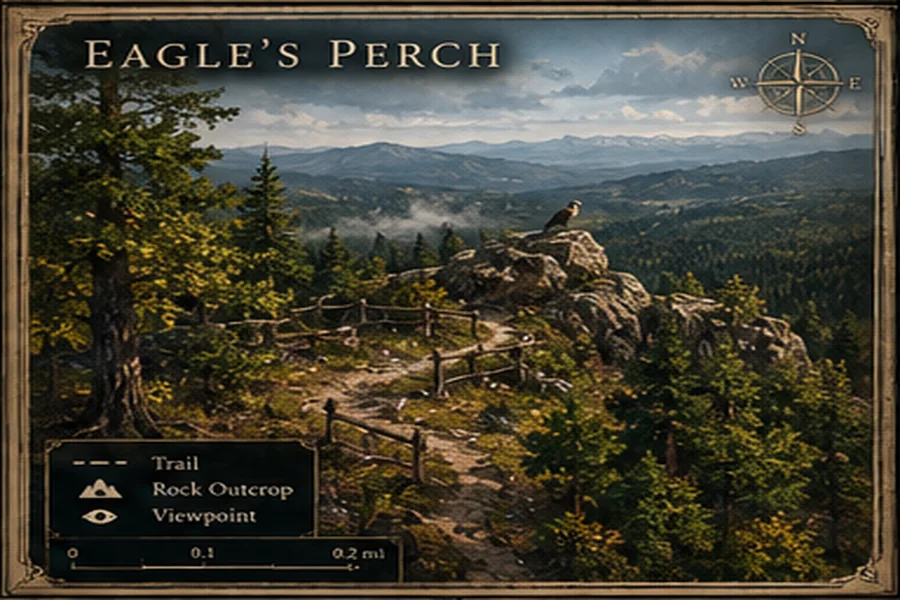
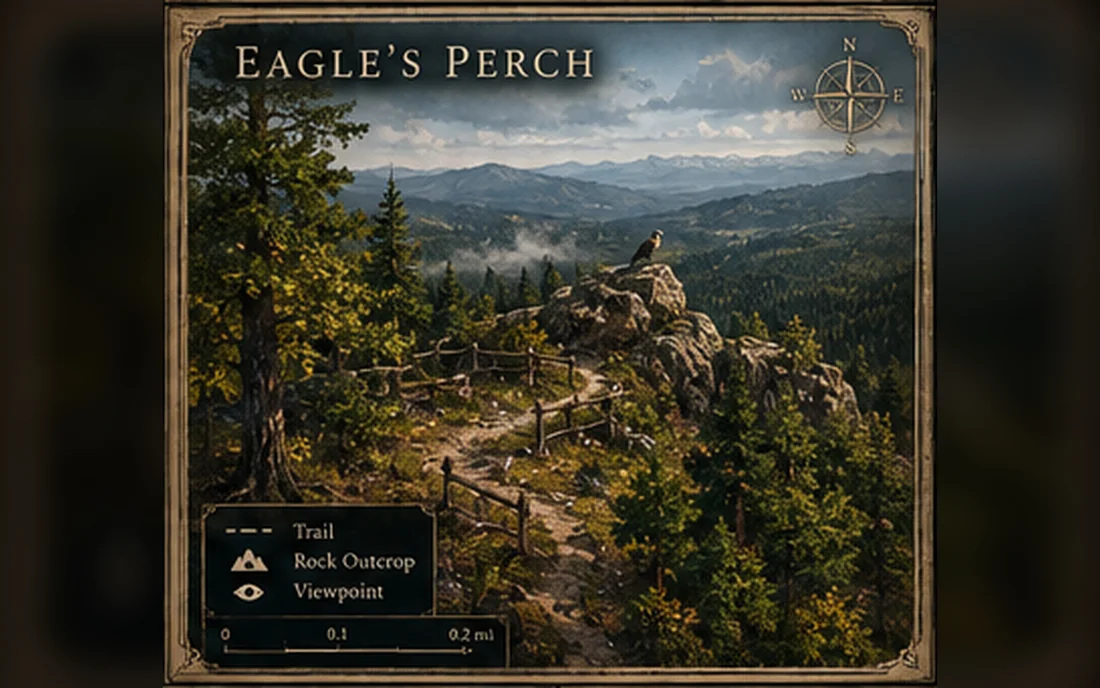
Use the 2560x1600 panels, and let them fill the frame
Emma's wallpaper edition replaces the 1536x1024 set. These are built to
fill a screen - the plate is centred in its own surround - so the artwork
is covered rather than contained: cropping now eats into that surround
instead of letterboxing a picture that already carries its own border.
225KB each at the served width, 1.7MB for all eleven.

Two small things that each looked done and were not. The object-fit
change appeared to do nothing because .land-drawn was defined twice and
the later copy held it at contain - the same source-order trap as the
.brush rule, and the duplicate is gone. And the title block had no bottom
padding, so the last line's descenders sat 15px into the artwork: a text
box ends at its baseline, not below its tails, and the stage begins where
that box ends. Measured at -14px now, which is clear.

diff --git a/apps/web/src/journey/land.css b/apps/web/src/journey/land.css
@@ -40,7 +40,10 @@
   color:rgba(255,255,255,.62);
 }
 
-.land-title{position:relative;z-index:3;text-align:center;padding:4px 20px 0}
+/* Bottom padding is load-bearing: without it the last line's descenders
+   sat 15px into the artwork, because the stage begins where this block's
+   box ends and a text box ends at its baseline, not below its tails. */
+.land-title{position:relative;z-index:3;text-align:center;padding:4px 20px 14px}
 .land-title h1{
   /* Explicit white: the journey page sets headings to a dark moss green,
      which on a night-lit photograph is invisible. */
@@ -309,7 +312,11 @@
 
 /* Inside a land you stand on drawn artwork, so it is shown whole rather
    than cropped to fill, and nothing is washed over it. */
-.land-drawn{object-fit:contain;background:#0b0d0c;filter:none}
+/* These panels are 2560x1600 with the plate centred in its own surround,
+   so they are built to fill a screen: cover crops only into that surround
+   rather than into the artwork, where contain would letterbox a picture
+   that already carries its own border. */
+.land-drawn{object-fit:cover;background:#0b0d0c;filter:none}
 .land-motto{
   margin:3px 0 0;font-size:.78rem;color:rgba(255,255,255,.66);
   font-family:var(--serif);
@@ -352,5 +359,6 @@
 }
 .land-stage .land-bg{position:absolute;inset:0;width:100%;height:100%}
 .land-stage .land-field{position:absolute;inset:0}
-.land-drawn{object-fit:contain;background:#0b0d0c;filter:none}
+/* (the .land-drawn rule lives once, above - a second copy here silently
+   won on source order and held object-fit at contain) */
 .land-at{font-size:.72rem;letter-spacing:.14em;text-transform:uppercase;opacity:.7}
